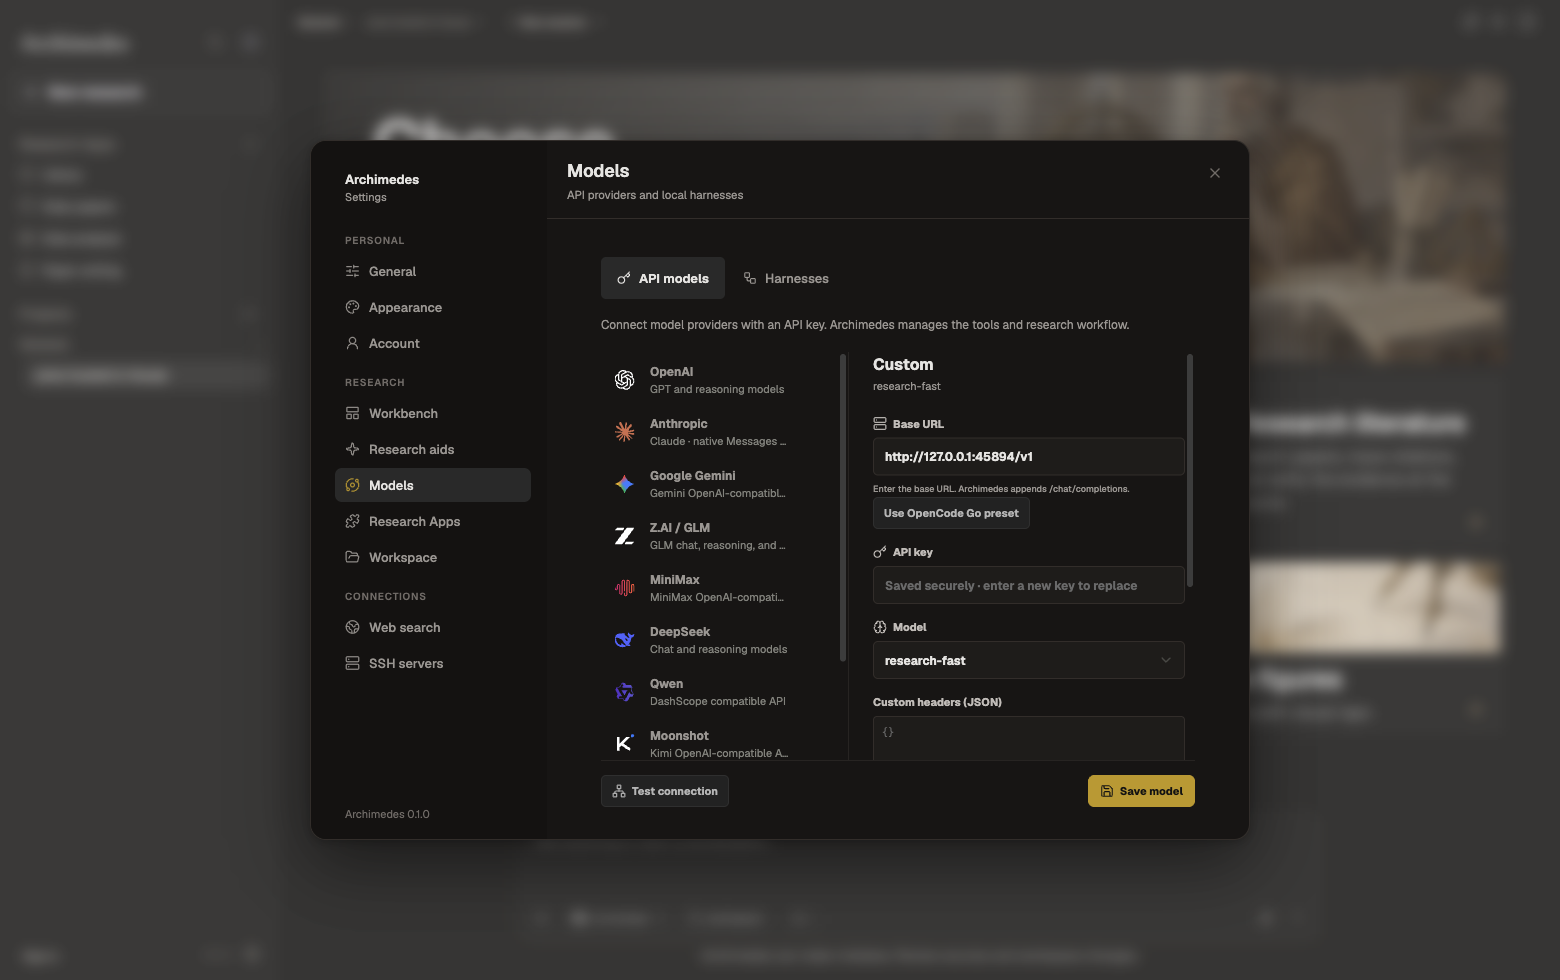
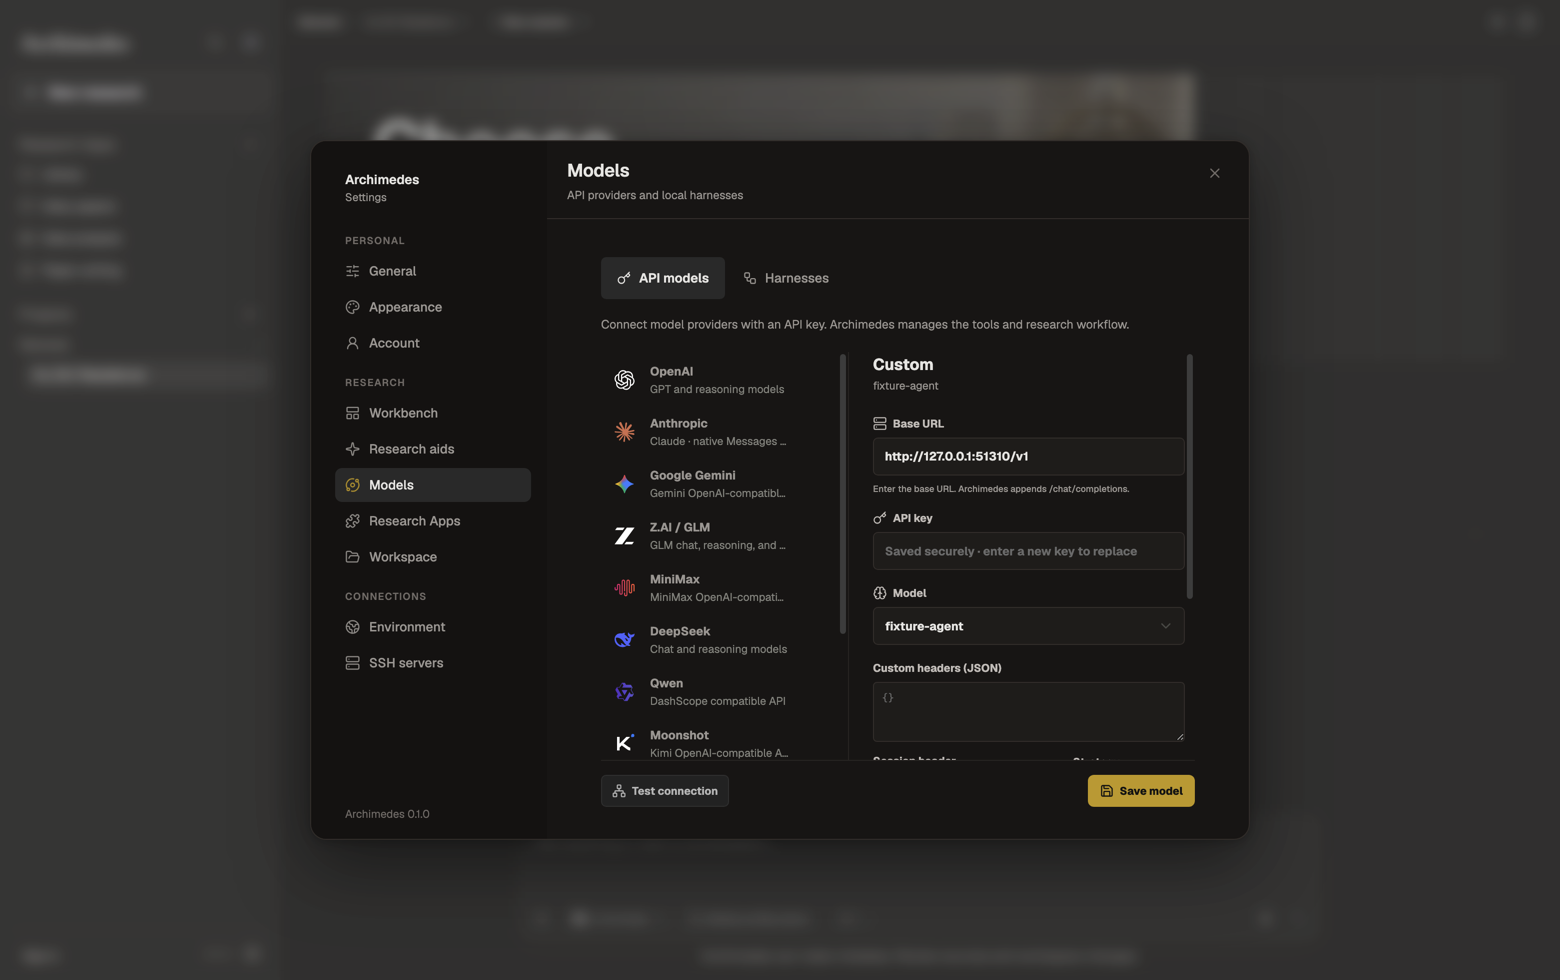
test(models): verify the reviewed profile workflow in Electron

diff --git a/docs/assets/model-registry/README.md b/docs/assets/model-registry/README.md
@@ -1,11 +1,15 @@
-# Model registry in Settings and the composer
+# Saved model profiles in Settings and the composer
 
-These screenshots show the compiled Archimedes desktop app on macOS at 1560 × 980 in the Paper and Charcoal themes. Both builds opened fresh local workspaces with the same two legacy model configurations. The fixture used only a loopback API and dummy credentials. The before build is the provider-headers branch at `1bca636`. The after build includes the registry changes and saves a model context value of 24,000 and an output limit of 321.
+Captured from the compiled macOS Electron app at a 1560 × 980 viewport in Paper and Charcoal. Both builds started with the same two legacy role configurations and a loopback API fixture. The baseline includes the revised provider support at `9bf88b5`.
 
 | Surface and state | Paper | Charcoal |
 | --- | --- | --- |
-| Settings → Models → API models, top of form | [Before](paper-before-settings.png) · [After](paper-after-settings.png) | [Before](charcoal-before-settings.png) · [After](charcoal-after-settings.png) |
-| Settings → Models → API models, bottom of form | [Before](paper-before-limits.png) · [After](paper-after-limits.png) | [Before](charcoal-before-limits.png) · [After](charcoal-after-limits.png) |
+| Models on first open | [Before](paper-before-settings.png) · [After](paper-after-settings.png) | [Before](charcoal-before-settings.png) · [After](charcoal-after-settings.png) |
+| Models with advanced profiles enabled | [Before](paper-before-settings.png) · [After](paper-after-advanced.png) | [Before](charcoal-before-settings.png) · [After](charcoal-after-advanced.png) |
+| Bottom of the model form | [Before](paper-before-limits.png) · [After](paper-after-limits.png) | [Before](charcoal-before-limits.png) · [After](charcoal-after-limits.png) |
+| Proactive model settings | [Before](paper-before-proactive.png) · [After](paper-after-proactive.png) | [Before](charcoal-before-proactive.png) · [After](charcoal-after-proactive.png) |
 | New research composer with harness menu open | [Before](paper-before-composer.png) · [After](paper-after-composer.png) | [Before](charcoal-before-composer.png) · [After](charcoal-after-composer.png) |
+
+The fixture saved two role assignments to one model, edited it through Proactive, and showed the updated model ID in the composer. The saved assignments, profile mode, and limits survived reload. Creating and deleting another named profile left the active Agent model intact. After four replies of about 51,000 characters each, the next loopback request contained 24,000 serialized message characters and `max_tokens: 321`.
 
 [Captured observations](observations.json)
